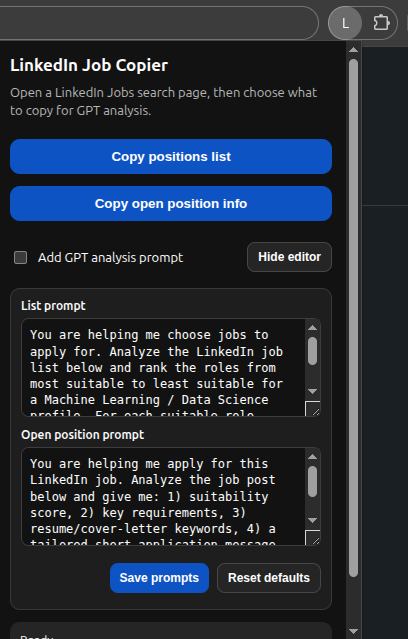
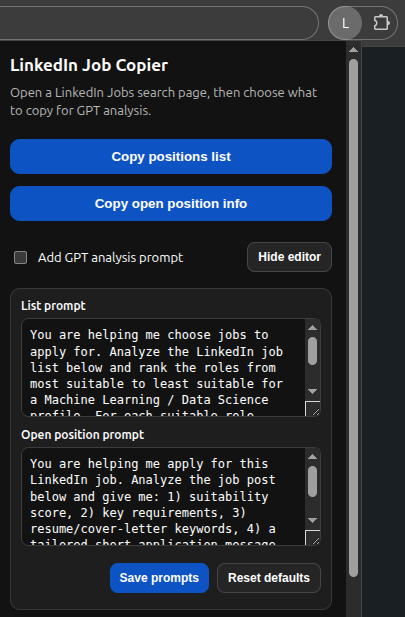
some minor modfications to the screenshots and their formating

diff --git a/README.md b/README.md
@@ -35,7 +35,14 @@ A small Chrome Manifest V3 extension for copying LinkedIn Jobs data into GPT.
 
 ## Screenshots
 
-<p align="center">
-  <img src="screenshots/popup-main.png" width="320" alt="LinkedIn Job Copier main popup">
-  <img src="screenshots/prompt-editor.png" width="320" alt="LinkedIn Job Copier prompt editor">
-</p>
+<table align="center">
+  <tr>
+    <td>
+      <img src="screenshots/popup-main.png" width="320" alt="LinkedIn Job Copier main popup">
+    </td>
+    <td width="24"></td>
+    <td>
+      <img src="screenshots/prompt-editor.png" width="320" alt="LinkedIn Job Copier prompt editor">
+    </td>
+  </tr>
+</table>